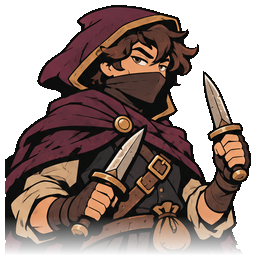
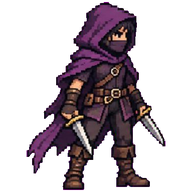
Full-body pixel sprites for heroes and act 1 enemies
Claude-Session: https://claude.ai/code/session_01PHPnufLvko6oz1SPBajzWi

diff --git a/tools/slice_sprites.py b/tools/slice_sprites.py
@@ -1,0 +1,78 @@
+"""Cuts full-body character sheets (flat magenta background) into art/hero and art/enemy.
+
+    python3 tools/slice_sprites.py <folder with hero-fullbody-sheet.png and enemy-act1-sheet.png>
+
+Sprites are found by the gaps between them, so uneven grids are fine. Each one is
+keyed out of the magenta, padded to a square with its feet on the bottom edge and
+saved at 192 px.
+"""
+import sys, os
+import numpy as np
+from PIL import Image, ImageFilter
+
+HEROES = ["shieldman", "gladiator", "archer", "rogue", "pyro", "frost", "healer", "bard"]
+ENEMIES = ["rat", "goblin", "skeleton", "shroom", "wolf", "imp", "ogre", "boneknight", "rustknight"]
+OUT = 192
+
+
+def background(a):
+    r, g, b = a[:, :, 0].astype(int), a[:, :, 1].astype(int), a[:, :, 2].astype(int)
+    return (r > 150) & (b > 150) & ((r + b) // 2 - g > 80)
+
+
+def bands(filled, min_gap, min_size):
+    out, start, gap = [], None, 0
+    for i, v in enumerate(list(filled) + [False] * (min_gap + 1)):
+        if v:
+            if start is None:
+                start = i
+            gap = 0
+        elif start is not None:
+            gap += 1
+            if gap > min_gap:
+                end = i - gap + 1
+                if end - start >= min_size:
+                    out.append((start, end))
+                start = None
+    return out
+
+
+def cut(path, names, cols, folder):
+    im = Image.open(path).convert("RGB")
+    a = np.array(im)
+    fg = ~background(a)
+    fg = np.array(Image.fromarray((fg * 255).astype(np.uint8)).filter(ImageFilter.MedianFilter(5))) > 0
+    boxes = []
+    for y0, y1 in bands(fg.sum(1) > 6, 10, 60):
+        for x0, x1 in bands(fg[y0:y1].sum(0) > 3, 24, 60):
+            ys = np.where(fg[y0:y1, x0:x1].sum(1) > 0)[0]
+            boxes.append((x0, y0 + ys[0], x1, y0 + ys[-1] + 1))
+    if len(boxes) != len(names):
+        # rows overlap: split into columns first, then rows inside each column
+        boxes = []
+        for x0, x1 in bands(fg.sum(0) > 6, 24, 60):
+            for y0, y1 in bands(fg[:, x0:x1].sum(1) > 3, 10, 60):
+                xs = np.where(fg[y0:y1, x0:x1].sum(0) > 0)[0]
+                boxes.append((x0 + xs[0], y0, x0 + xs[-1] + 1, y1))
+        row_h = a.shape[0] / (len(names) / cols)
+        boxes.sort(key=lambda b: (int(((b[1] + b[3]) / 2) // row_h), b[0]))
+    if len(boxes) != len(names):
+        raise SystemExit("%s: found %d sprites, expected %d" % (path, len(boxes), len(names)))
+    os.makedirs(folder, exist_ok=True)
+    for name, (x0, y0, x1, y1) in zip(names, boxes):
+        crop = a[y0:y1, x0:x1]
+        alpha = np.where(background(crop), 0, 255).astype(np.uint8)
+        alpha = np.array(Image.fromarray(alpha).filter(ImageFilter.MinFilter(3)))
+        spr = Image.fromarray(np.dstack([crop, alpha]), "RGBA")
+        side = max(spr.size) + 8
+        sq = Image.new("RGBA", (side, side), (0, 0, 0, 0))
+        sq.paste(spr, ((side - spr.size[0]) // 2, side - spr.size[1] - 4))
+        sq.resize((OUT, OUT), Image.LANCZOS).save(os.path.join(folder, name + ".png"))
+        print(name, spr.size)
+
+
+if __name__ == "__main__":
+    src = sys.argv[1]
+    root = os.path.join(os.path.dirname(os.path.abspath(__file__)), "..", "art")
+    cut(os.path.join(src, "hero-fullbody-sheet.png"), HEROES, 4, os.path.join(root, "hero"))
+    cut(os.path.join(src, "enemy-act1-sheet.png"), ENEMIES, 3, os.path.join(root, "enemy"))
